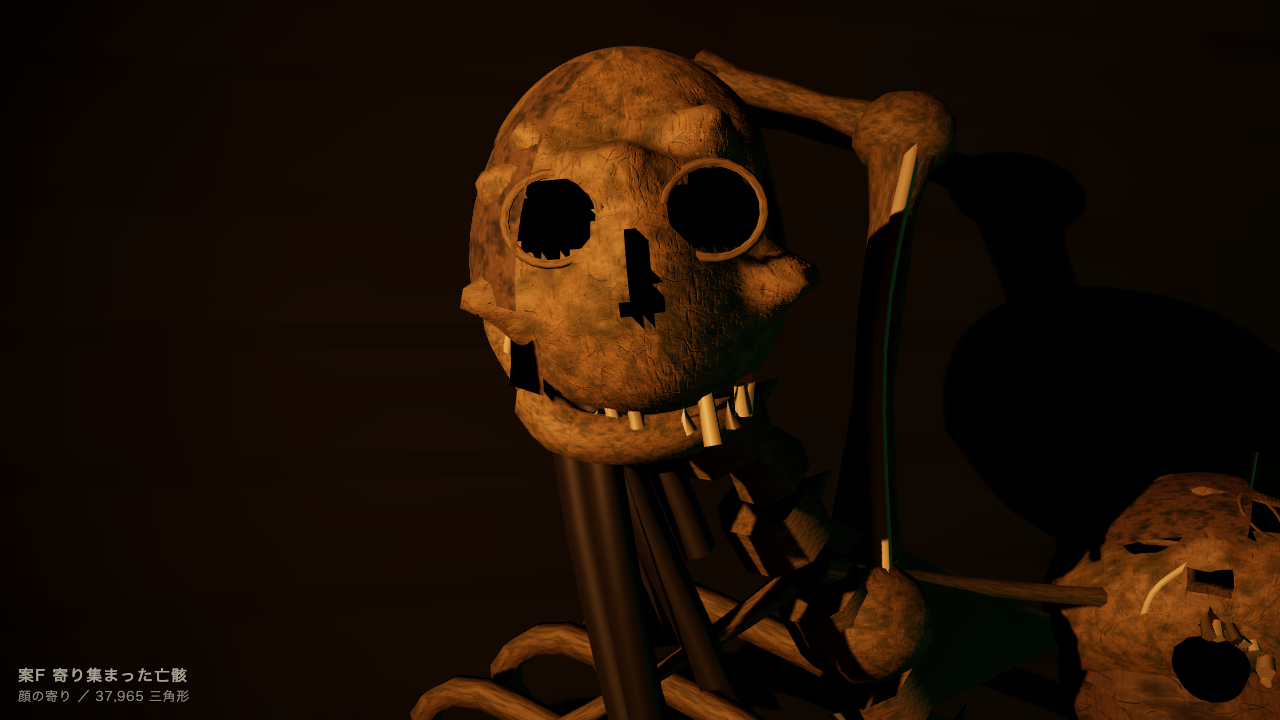
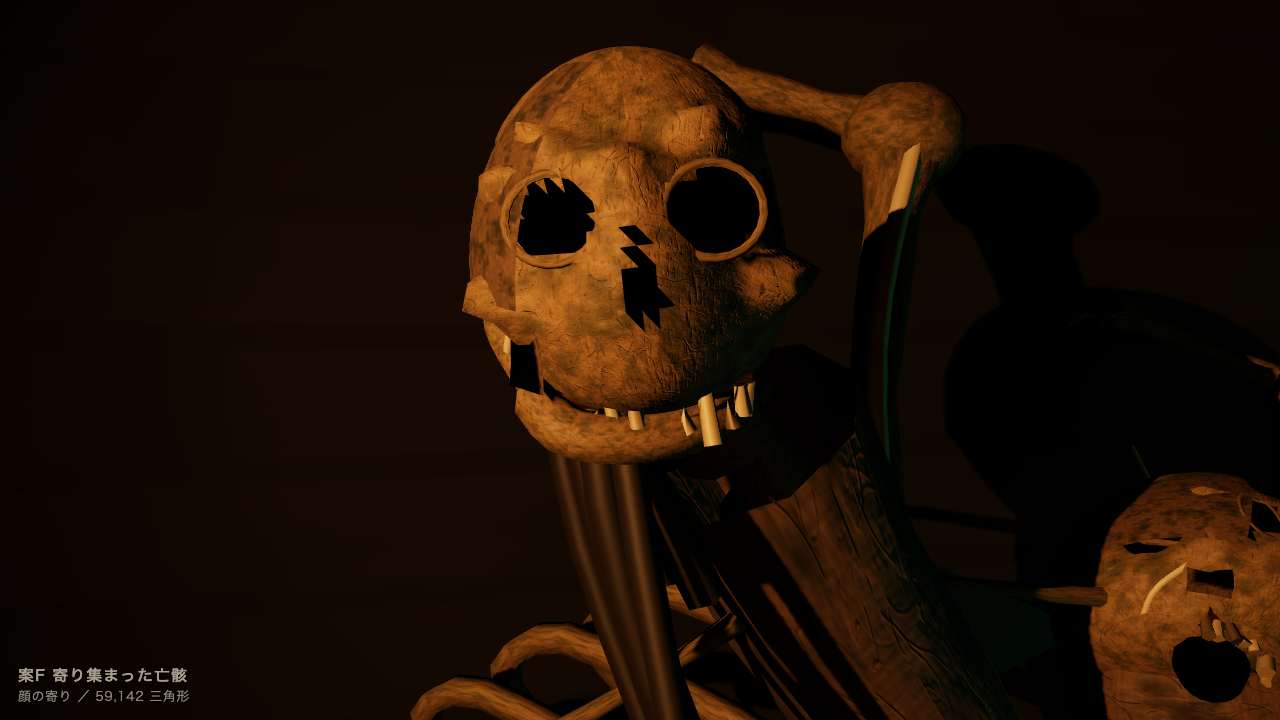
P5e-1: 案F 目視差し戻し反映 頭蓋8個・肋郭3・肢12で複雑化（full/face/corridor）

diff --git a/audit/enemy-mocks-a2/3d/mock_F.js b/audit/enemy-mocks-a2/3d/mock_F.js
@@ -239,6 +239,15 @@
   F.tube = tube;
 
   /* 三角形を削って本当の穴を開ける（眼窩・鼻腔）。holes: [{c:[x,y,z], r:[rx,ry,rz]}] */
+  /* 歪めた楕円体（埋没した頭蓋を覆う乾いた肉のかたまり） */
+  F.warpBall = function (THREE, rx, ry, rz, seed) {
+    var L = global.ESCAPE.__A2LIB;
+    var g = new THREE.SphereGeometry(1, 14, 11);
+    g.scale(rx, ry, rz);
+    L.warp(g, Math.min(rx, ry) * 0.26, 12, seed || 7);
+    return g;
+  };
+
   F.punch = function (g, holes) {
     var pos = g.attributes.position.array, idx = g.index.array, out = [], i, h;
     for (i = 0; i < idx.length; i += 3) {
@@ -283,13 +292,28 @@
   /* 頭蓋。原点＝頭の中心、正面 −Z。
    * 眼窩は「本物の穴」: 骨殻に浅い窪みを彫り、そこへ開口円錐（内面＝ほぼ無照明の黒）を
    * 差し込む。窪みの周囲は隆起させて骨の縁を立てる。
-   * opt: { seed, gape（下顎の開き rad）, slip（下顎の横ずれ）, jaw, scale, chip } */
+   * opt: { seed, gape, slip, jaw, scale, chip, seg,
+   *        slim（頬骨弓・皮膚片・腱を省いて安く作る）, only:'jaw'|'calvaria'（断片） } */
   F.skull = function (THREE, P, opt) {
     opt = opt || {};
     var L = global.ESCAPE.__A2LIB;
     var R = F.rng(opt.seed || 5), G = new THREE.Group();
     var rx = 0.080, ry = 0.098, rz = 0.110;
     var ch = opt.chip === undefined ? 1 : opt.chip;
+    var slim = !!opt.slim, only = opt.only || '';
+    /* 頭頂の割れた蓋だけの断片 */
+    if (only === 'calvaria') {
+      var cal = new THREE.SphereGeometry(1, 22, 14, 0.35, Math.PI * 1.15, 0, Math.PI * 0.48);
+      cal.scale(rx, ry, rz);
+      L.warp(cal, 0.004, 16, opt.seed || 5);
+      var cm = mesh(THREE, cal, P.boneSkull);
+      cm.material = P.boneSkull; G.add(cm);
+      var cin = new THREE.SphereGeometry(1, 12, 8, 0.35, Math.PI * 1.15, 0, Math.PI * 0.48);
+      cin.scale(rx * 0.90, ry * 0.90, rz * 0.90);
+      G.add(mesh(THREE, cin, P.cavity));
+      if (opt.scale) G.scale.setScalar(opt.scale);
+      return G;
+    }
     /* 眼窩の中心（左右で高さ・大きさを変える＝非対称） */
     var OR = [
       { c: [rx * 0.44, ry * 0.20, -rz * 0.64], r: 0.0320, s: 1 },
@@ -297,6 +321,25 @@
     ];
 
     /* ---- 脳頭蓋 ---- */
+    if (only === 'jaw') {
+      var JG = new THREE.Group();
+      JG.add(mesh(THREE, F.tube(THREE, [
+        [rx * 0.58, ry * 0.02, -rz * 0.30], [rx * 0.44, -ry * 0.03, -rz * 0.54],
+        [0, -ry * 0.05, -rz * 0.62], [-rx * 0.44, -ry * 0.03, -rz * 0.52],
+        [-rx * 0.56, ry * 0.02, -rz * 0.28]
+      ], 0.0122, 6), P.boneDirty));
+      [1, -1].forEach(function (s4) {
+        JG.add(mesh(THREE, F.tube(THREE, [
+          [s4 * rx * 0.54, 0.002, -rz * 0.36], [s4 * rx * 0.70, ry * 0.20, rz * 0.10]
+        ], 0.0092, 5), P.boneDirty));
+      });
+      F.teethRow(THREE, P, JG, 11, function (t) {
+        var a = (t - 0.5) * 2.38;
+        return [Math.sin(a) * rx * 0.52, 0.007, -rz * 0.38 - Math.cos(a) * rz * 0.22];
+      }, true, [0.0060, 0.0158], (opt.seed || 5) + 9, 0.34);
+      if (opt.scale) JG.scale.setScalar(opt.scale);
+      return JG;
+    }
     var SEG = opt.seg || 44;
     var v = new THREE.SphereGeometry(1, SEG, Math.round(SEG * 0.68)); v.scale(rx, ry, rz);
     function shape(x, y, z, o) {
@@ -356,7 +399,7 @@
     ]);
     G.add(mesh(THREE, v, P.boneSkull));
     /* 頭蓋の内側＝完全な闇（穴から覗く） */
-    var inn = new THREE.SphereGeometry(1, 16, 12);
+    var inn = new THREE.SphereGeometry(1, slim ? 10 : 16, slim ? 8 : 12);
     inn.scale(rx, ry, rz);
     L.deform(inn, shape);
     inn.scale(0.90, 0.90, 0.90);
@@ -370,13 +413,13 @@
       tubeIn.rotateX(Math.PI / 2);
       G.add(mesh(THREE, tubeIn, P.cavity, [c[0], c[1], -rz * 0.58], [0.12, -e.s * 0.28, 0], [1, 0.86, 1]));
       /* 立った骨の縁（眼窩縁）。穴の切り口も隠す。 */
-      var rim = new THREE.TorusGeometry(w * 1.02, w * 0.112, 5, 22);
+      var rim = new THREE.TorusGeometry(w * 1.02, w * 0.112, 5, slim ? 13 : 22);
       rim.scale(1, 0.88, 0.50);
       G.add(mesh(THREE, rim, P.boneSkull, [c[0], c[1], -rz * 0.795], [0.13, -e.s * 0.30, e.s * 0.08]));
     });
 
     /* ---- 頬骨弓: 殻に沿わせた細い橋（下に隙間ができる＝本物の頭蓋の決め手） ---- */
-    [1, -1].forEach(function (s2) {
+    if (!slim) [1, -1].forEach(function (s2) {
       G.add(mesh(THREE, F.tube(THREE, [
         [s2 * rx * 0.70, -ry * 0.10, -rz * 0.44], [s2 * rx * 0.86, -ry * 0.02, -rz * 0.12],
         [s2 * rx * 0.84, ry * 0.10, rz * 0.18]
@@ -425,6 +468,7 @@
     }
 
     /* ---- 骨に張り付いた羊皮紙状の皮膚と腱（3か所・非対称） ---- */
+    if (slim) { if (opt.scale) G.scale.setScalar(opt.scale); return G; }
     var pc = new THREE.SphereGeometry(1, 12, 9, Math.PI * 0.72, Math.PI * 0.56, Math.PI * 0.20, Math.PI * 0.40);
     pc.scale(rx * 1.03, ry * 1.03, rz * 1.03);
     G.add(mesh(THREE, pc, P.dry, [0, 0, 0], [0, 0, 0.25]));              /* 後頭にだけ張り付く */
@@ -649,25 +693,25 @@
 
       /* ===== 肢8本（大人と子供／2本は逆向きの関節） ===== */
       limb(THREE, P, G, { a: [0.60, 1.80, -0.02], b: [0.82, 2.14, 0.14], c: [0.93, 2.20, 0.00],
-        r0: 0.030, r1: 0.023, hand: 0.10, aim: [0.5, -1.35, 0.4], seed: 3, curl: 0.5 });
+        r0: 0.036, r1: 0.028, hand: 0.10, aim: [0.5, -1.35, 0.4], seed: 3, curl: 0.5 });
       limb(THREE, P, G, { a: [0.67, 1.66, 0.30], b: [0.46, 1.29, -0.32], c: [0.90, 1.33, -0.28],  /* 逆向きの肘 */
-        r0: 0.029, r1: 0.022, bow1: 0.06, hand: 0.095, aim: [0.1, -1.6, -0.2], seed: 7, curl: 0.55 });
+        r0: 0.035, r1: 0.026, bow1: 0.06, hand: 0.095, aim: [0.1, -1.6, -0.2], seed: 7, curl: 0.55 });
       limb(THREE, P, G, { a: [0.69, 1.46, 0.08], b: [0.50, 1.28, -0.36], c: [0.37, 1.12, -0.55],  /* 子供の腕 */
-        r0: 0.017, r1: 0.013, child: true, hand: 0.058, aim: [-0.5, -0.6, 0.5], seed: 11, curl: 0.22 });
+        r0: 0.020, r1: 0.015, child: true, hand: 0.058, aim: [-0.5, -0.6, 0.5], seed: 11, curl: 0.22 });
       limb(THREE, P, G, { a: [0.75, 1.54, 0.62], b: [0.87, 1.12, 0.87], c: [0.82, 0.73, 0.93],    /* 垂れた腕 */
-        r0: 0.026, r1: 0.020, dirty: true, hand: 0.088, aim: [0.9, -0.3, 0.2], seed: 13, curl: 0.15 });
+        r0: 0.031, r1: 0.024, dirty: true, hand: 0.088, aim: [0.9, -0.3, 0.2], seed: 13, curl: 0.15 });
       limb(THREE, P, G, { a: [0.80, 0.99, 0.71], b: [0.60, 0.62, 0.28], c: [0.92, 0.41, 0.26],    /* 脚（膝が手前） */
-        r0: 0.034, r1: 0.026, foot: 0.11, aim: [-0.35, -1.5, 0.3], seed: 17 });
+        r0: 0.041, r1: 0.031, foot: 0.11, aim: [-0.35, -1.5, 0.3], seed: 17 });
       limb(THREE, P, G, { a: [0.78, 0.93, 0.86], b: [0.91, 0.49, 1.27], c: [0.93, 0.19, 0.85],    /* 逆向きの膝 */
-        r0: 0.031, r1: 0.024, dirty: true, foot: 0.10, aim: [0.5, -1.5, -0.3], seed: 19 });
+        r0: 0.037, r1: 0.029, dirty: true, foot: 0.10, aim: [0.5, -1.5, -0.3], seed: 19 });
       limb(THREE, P, G, { a: [0.85, 0.85, 1.00], b: [0.95, 0.62, 1.24], c: [0.94, 0.34, 1.31],    /* 子供の脚 */
-        r0: 0.018, r1: 0.014, child: true, foot: 0.062, aim: [0.2, -1.5, 0.0], seed: 23 });
+        r0: 0.022, r1: 0.017, child: true, foot: 0.062, aim: [0.2, -1.5, 0.0], seed: 23 });
       G.add(F.bone(THREE, P.boneDirty, [0.71, 1.30, 0.74], [0.56, 1.03, 0.97], 0.024, 0.05, 9, 5)); /* 折れた腕の残骸 */
       G.add(mesh(THREE, new THREE.ConeGeometry(0.026, 0.035, 5), P.cavity, [0.55, 1.01, 0.99], [1.0, 0.4, 0.6]));
 
       /* ===== 頭蓋3つ ===== */
       /* 主頭蓋: 首をねじって壁から外へ（カメラ側 −X）顔を向ける。下顎はずれて開く。 */
-      var hA = F.skull(THREE, P, { seed: 5, gape: 0.42, slip: 0.018, seg: 76 });
+      var hA = F.skull(THREE, P, { seed: 5, gape: 0.42, slip: 0.018, seg: 52 });
       hA.position.set(0.50, 2.02, -0.20); hA.rotation.set(-0.28, 1.24, 0.14); G.add(hA);
       G.add(F.bone(THREE, P.bone, [0.56, 1.90, -0.10], [0.51, 1.97, -0.18], 0.026, 0, 8, 4)); /* 頸椎 */
       /* 2つ目: 肩の肉に半分埋没（頭頂と片眼窩だけ出る） */
@@ -683,6 +727,64 @@
       L.warp(buryC, 0.012, 15, 4);
       G.add(mesh(THREE, buryC, P.dry, [0.56, 1.30, 0.36]));
 
+      /* 4つ目: 子供の頭蓋。胸郭の縁から横向きに覗く */
+      var hD = F.skull(THREE, P, { seed: 23, gape: 0.50, slip: 0.012, chip: 1.2, scale: 0.62, seg: 30, slim: true });
+      hD.position.set(0.64, 1.56, -0.10); hD.rotation.set(0.36, 0.80, -1.05); G.add(hD);
+      G.add(mesh(THREE, F.warpBall(THREE, 0.056, 0.050, 0.058, 11), P.dry, [0.68, 1.52, 0.00]));
+      /* 5つ目: 欠けた半分の頭蓋。下の肋郭に食い込む（下顎なし） */
+      var hE = F.skull(THREE, P, { seed: 57, jaw: false, chip: 2.6, scale: 0.92, seg: 30, slim: true });
+      hE.position.set(0.55, 1.10, 0.06); hE.rotation.set(1.05, 1.85, 0.70); G.add(hE);
+      G.add(mesh(THREE, F.warpBall(THREE, 0.078, 0.070, 0.076, 13), P.dry, [0.61, 1.07, 0.14]));
+      /* 6つ目: 下顎だけの断片が骨盤の上に癒着 */
+      var hF = F.skull(THREE, P, { seed: 83, only: 'jaw', scale: 1.05 });
+      hF.position.set(0.61, 0.92, 0.26); hF.rotation.set(-0.45, 1.10, 2.25); G.add(hF);
+      /* 7つ目: 幼児の頭蓋。腰の骨の間に沈む */
+      var hG = F.skull(THREE, P, { seed: 97, jaw: false, chip: 1.8, scale: 0.48, seg: 24, slim: true });
+      hG.position.set(0.70, 0.78, 0.02); hG.rotation.set(0.25, 0.30, 2.45); G.add(hG);
+      G.add(mesh(THREE, F.warpBall(THREE, 0.042, 0.038, 0.042, 10), P.dry, [0.73, 0.76, 0.07]));
+      /* 8つ目: 頭頂の割れた蓋だけが背中から生えている */
+      var hH = F.skull(THREE, P, { only: 'calvaria', seed: 31, scale: 0.88 });
+      hH.position.set(0.60, 1.40, 0.36); hH.rotation.set(-1.25, 0.20, 0.30); G.add(hH);
+
+      /* 9つ目: 大人の頭蓋が胸郭の左から顔を出す */
+      var hI = F.skull(THREE, P, { seed: 113, gape: 0.30, slip: -0.020, chip: 1.6, scale: 0.80, seg: 28, slim: true });
+      hI.position.set(0.50, 1.44, -0.18); hI.rotation.set(-0.10, 1.55, -0.55); G.add(hI);
+      G.add(mesh(THREE, F.warpBall(THREE, 0.066, 0.060, 0.066, 17), P.dry, [0.56, 1.42, -0.10]));
+      /* 10個目: 子供の頭蓋が腰の下から出る */
+      var hJ = F.skull(THREE, P, { seed: 127, gape: 0.44, chip: 1.4, scale: 0.56, seg: 26, slim: true });
+      hJ.position.set(0.58, 0.62, 0.04); hJ.rotation.set(0.22, 1.20, -2.30); G.add(hJ);
+      G.add(mesh(THREE, F.warpBall(THREE, 0.048, 0.044, 0.048, 19), P.dry, [0.63, 0.64, 0.10]));
+      /* 下胴の乾いた肉のかたまり（骨の山を一体にまとめる） */
+      G.add(mesh(THREE, F.warpBall(THREE, 0.150, 0.185, 0.145, 23), P.dry, [0.74, 0.96, 0.44]));
+      G.add(mesh(THREE, F.warpBall(THREE, 0.115, 0.140, 0.110, 29), P.dryWet, [0.70, 1.38, 0.24]));
+
+      /* ===== 3つ目の肋郭（子供・脊柱の下部に噛み合う） ===== */
+      G.add(F.ribcage(THREE, P.boneChild, {
+        n: 7, h: 0.30, w: 0.105, d: 0.112, r: 0.0072, seed: 61,
+        p: [0.59, 1.20, 0.00], rot: [-0.62, -0.95, 0.42]
+      }));
+
+      /* ===== 追加の肢（合計12本） ===== */
+      limb(THREE, P, G, { a: [0.72, 1.62, 0.46], b: [0.88, 1.92, 0.62], c: [0.95, 2.00, 0.46],
+        r0: 0.023, r1: 0.018, child: true, hand: 0.062, aim: [0.4, -1.5, 0.5], seed: 29, curl: 0.5 });
+      limb(THREE, P, G, { a: [0.74, 1.04, 0.28], b: [0.52, 0.68, -0.20], c: [0.41, 0.38, -0.40],
+        r0: 0.036, r1: 0.028, dirty: true, foot: 0.098, aim: [-0.9, -0.9, 0.4], seed: 31 });
+      limb(THREE, P, G, { a: [0.82, 0.76, 0.44], b: [0.70, 0.50, 0.16], c: [0.90, 0.33, 0.44],  /* 子供・逆関節 */
+        r0: 0.020, r1: 0.015, child: true, foot: 0.058, aim: [0.3, -1.5, -0.2], seed: 37 });
+      /* 前腕と手だけの肢（上腕は無い） */
+      G.add(F.bone(THREE, P.boneDirty, [0.80, 0.66, 0.02], [0.93, 0.50, -0.12], 0.022, 0.04, 8, 5));
+      G.add(F.hand(THREE, P.boneDirty, [0.94, 0.48, -0.14], [0.2, -1.6, 0.1], 0.086, 41, 0.5));
+      G.add(F.knob(THREE, P.boneDirty, [0.80, 0.66, 0.02], 0.030));
+
+      /* ===== 背骨1本の芯: 全部を癒合させる乾いた組織の鞘 ===== */
+      var core = F.tube(THREE, [[0.84, 0.58, 0.94], [0.80, 0.96, 0.62], [0.73, 1.34, 0.30],
+        [0.64, 1.71, 0.04], [0.56, 1.92, -0.12]], 0.066, 9);
+      L.warp(core, 0.016, 11, 5);
+      G.add(mesh(THREE, core, P.dry));
+      var core2 = F.tube(THREE, [[0.80, 0.74, 0.72], [0.72, 1.16, 0.40], [0.66, 1.55, 0.16]], 0.036, 8);
+      L.warp(core2, 0.013, 14, 12);
+      G.add(mesh(THREE, core2, P.dryWet));
+
       /* ===== 乾いた皮膚の膜・腱 ===== */
       G.add(F.web(THREE, P.dry, [0.64, 1.74, 0.02], [0.66, 1.46, 0.14], [0.80, 1.62, 0.26], 0.035));
       G.add(F.web(THREE, P.dry, [0.68, 1.62, 0.28], [0.58, 1.42, -0.02], [0.72, 1.40, 0.20], 0.05));
@@ -695,6 +797,22 @@
           [0.60 + R() * 0.1, 1.90 - t0 * 1.2, -0.10 + t0 * 0.7],
           [0.72 + R() * 0.12, 1.80 - t0 * 1.3, 0.02 + t0 * 0.8],
           [0.84 + R() * 0.08, 1.66 - t0 * 1.25, 0.16 + t0 * 0.75]], 0.0045 + R() * 0.004));
+      }
+
+      /* 追加の襞と腱（骨の隙間を埋めて一体にする） */
+      [[[0.62, 1.72, 0.02], [0.78, 1.52, 0.04], [0.70, 1.60, 0.30]],
+       [[0.78, 1.50, 0.00], [0.66, 1.30, 0.10], [0.80, 1.28, 0.26]],
+       [[0.62, 1.06, 0.26], [0.74, 1.22, 0.44], [0.66, 1.30, 0.14]],
+       [[0.76, 0.82, 0.60], [0.86, 0.72, 0.32], [0.80, 0.96, 0.46]],
+       [[0.58, 1.60, 0.52], [0.68, 1.48, 0.34], [0.62, 1.68, 0.30]],
+       [[0.74, 1.62, 0.46], [0.62, 1.78, 0.22], [0.72, 1.80, 0.44]]
+      ].forEach(function (w, k) { G.add(F.web(THREE, k % 2 ? P.dry : P.dryWet, w[0], w[1], w[2], 0.035)); });
+      for (i = 0; i < 10; i++) {
+        var u = i / 9;
+        G.add(F.sinew(THREE, P.sinew, [
+          [0.58 + R() * 0.22, 1.92 - u * 1.24, -0.10 + u * 0.92],
+          [0.70 + R() * 0.18, 1.84 - u * 1.28, 0.04 + u * 0.90],
+          [0.84 + R() * 0.10, 1.70 - u * 1.20, 0.22 + u * 0.72]], 0.0035 + R() * 0.0035));
       }
 
       /* ===== 髪の房・布の切れ端・根 ===== */
@@ -722,7 +840,7 @@
       return G;
     },
     cams: {
-      full: { pos: [-1.62, 1.32, -0.64], look: [0.68, 1.26, 0.34] },
+      full: { pos: [-1.80, 1.38, -0.80], look: [0.68, 1.18, 0.30] },
       face: { pos: [-0.09, 1.98, -0.40], look: [0.462, 1.966, -0.212], fov: 32 },
       corridor: { pos: [-0.10, 1.50, -8.60], look: [0.62, 1.40, 0.16] }
     }

diff --git a/audit/enemy-mocks-a2/3d/index_b.html b/audit/enemy-mocks-a2/3d/index_b.html
@@ -180,15 +180,20 @@ ESCAPE.__A2MOCKS = ESCAPE.__A2MOCKS || {};
     key.castShadow = true; key.shadow.mapSize.set(2048, 2048);
     key.shadow.bias = -0.0016; key.shadow.normalBias = 0.012;
     scene.add(key); scene.add(key.target);
+    if (!face) {   /* 下半身を起こす第2キー（同じ斜め上から・弱く） */
+      var key2 = new THREE.SpotLight(0xff9c46, 11.0, 8.0, 0.80, 0.80, 1.9);
+      key2.position.set(-0.34, 2.20, -1.20); key2.target.position.set(0.72, 0.82, 0.30);
+      scene.add(key2); scene.add(key2.target);
+    }
     if (!face) {
       var glow = new THREE.PointLight(0xff9d42, 1.4, 2.4, 2.0);
       glow.position.set(-0.22, 2.34, -1.72); scene.add(glow);
     }
     /* 水面からの緑のリム（下・背後）。ホットスポットを作らないよう弱く遠くから。 */
-    var rim = new THREE.PointLight(0x4aa87f, face ? 1.4 : 2.4, face ? 4.0 : 6.0, 1.7);
+    var rim = new THREE.PointLight(0x54a483, face ? 1.4 : 1.8, face ? 4.0 : 6.0, 1.8);
     rim.position.set(face ? 0.30 : 0.60, face ? 1.30 : 0.62, face ? 1.30 : 1.95); scene.add(rim);
     if (!face) {
-      var rim2 = new THREE.PointLight(0x2f7f5a, 1.0, 5.0, 1.7);
+      var rim2 = new THREE.PointLight(0x357c5e, 0.8, 5.0, 1.8);
       rim2.position.set(-0.30, 0.70, 1.60); scene.add(rim2);
     }
     /* ごく弱いフィル（完全な黒つぶれを避ける） */

diff --git a/audit/enemy-mocks-a2/3d/README_B.md b/audit/enemy-mocks-a2/3d/README_B.md
@@ -37,15 +37,23 @@
 ### 4. 人体の部品を3つ以上
 歯列（1本ずつ独立ジオメトリ・6色から選択・大きさと向きを散らし、20〜28%を欠損）／
 肋骨（2組・折れた肋骨を16%混入）／椎骨と棘突起／鎖骨／腱（`F.sinew`）／
-指の節（手4・足3、各5指×3節）／下顎頭／骨盤。
+指の節（手5・足4、各5指×3節）／下顎頭／骨盤。
 
 ### 5. シルエット: 多すぎる肢と複数の頭蓋
-- 頭蓋3つ: **主**＝首をねじって壁の外（カメラ側）を向き、下顎が横へずれて開く／
-  **2つ目**＝肩の乾いた肉に半分埋没／**3つ目**＝背中側に逆さで沈む。
-- 肋郭 **2つが噛み合う**（大人の胸郭に、60°回した小さい胸郭が食い込む）。
-- 肢は **8本**。大人6・子供2（細く短い腕と脚）。うち **2本は逆向きに曲がる**
+（2026-09-14 ユーザー目視差し戻し「もっと顔の数を増やして複雑に」を反映して増量）
+- 頭蓋 **8個**（＋断片2）。大きさ・状態・向きを全部変えてある:
+  1 **主**＝首をねじって壁の外（カメラ側）を向き、下顎が横へずれて開く（seg 52・唯一の高密度）
+  2 肩の乾いた肉に半分埋没 3 背中側に逆さで沈む 4 子供（0.62倍・胸郭の縁から覗く）
+  5 欠けた半分（下顎なし・欠け 2.6倍・下の肋郭に食い込む） 6 幼児（0.48倍・腰の骨の間）
+  7 大人（0.80倍・胸郭の左から顔を出す） 8 子供（0.56倍・腰の下から出る）
+  ＋ **下顎だけの断片**（骨盤の上に癒着）／**頭頂の割れた蓋**（背中から生える）
+- 肋郭 **3つが噛み合う**（大人＋60°回した小胸郭＋子供の小さい胸郭）。
+- 肢は **12本**。大人7・子供4・前腕と手だけ1。うち **2本は逆向きに曲がる**
   （肘が手前へ折れて前腕が壁へ戻る／膝が前方へ折れる）。加えて手首から先が無い折れた腕1本。
-- 壁（x=+1.00 の面）に手4本・足3本を掛けて這う姿勢。指は掴む向きに曲げてある。
+- **一体化**: 脊柱に沿って乾いた組織の鞘を2本通し（`core` / `core2`）、埋没した頭蓋ごとに
+  歪めた肉のかたまり（`F.warpBall`）、下胴に大きな肉塊2つを置いて
+  「背骨1本の芯に全部が癒合した一体の怪物」としてまとめた（骨の山に見えないように）。
+- 壁（x=+1.00 の面）に手5本・足4本を掛けて這う姿勢。指は掴む向きに曲げてある。
 
 ### 6. 撮影
 - ナトリウム橙のキー1灯（斜め上・画面外）＋水面の緑のリム（下・背後）＋ごく弱いフィル。
@@ -66,13 +74,15 @@
 - 舞台は視点で切り替え: full/face＝壁 x=+1.00＋濡れた床、corridor＝支線の通路。
 
 ## 数値
-- 三角形数: **37,965**（上限 45,000）
+- 三角形数: **59,142**（F のみ上限 60,000 に緩和）
 - 顔の寄りの中央値輝度: **9**（目標 9〜14 / v4_face.png は 10）
 
 ## 既知の妥協点
 - 眼窩の穴は三角形単位の切り取りなので、切り口は厳密な楕円ではない（縁のリングで隠している）。
 - 頭蓋3つは同じ彫り方の使い回し（seed と欠けの強さ・分割数だけ変えている）。
-  主頭蓋は 76 分割、埋没した2つは 34 分割。
-- 皮膚は膜（三角パッチ）と殻の断片で表現しており、骨に張り付いて垂れる襞までは作っていない。
+  主頭蓋のみ 52 分割で、他は 24〜34 分割＋`slim`（頬骨弓・皮膚片・腱を省略）。
+- 皮膚は膜（三角パッチ）・歪めた楕円体・殻の断片で表現しており、骨に張り付いて垂れる襞までは作っていない。
+- 下半身の肢が放射状に広がるため、全身視点の下側はまだ骨の束に見える余地がある。
+- 増えた頭蓋のうち下側の3つ（幼児・下顎断片・子供）は full 視点では小さく、数えるには寄りが要る。
 - 血・粘膜は入れていない（乾いた骸という設定のため）。
 - ポーズは固定。壁への接地は座標を手で合わせている（物理的な接触判定はしていない）。
